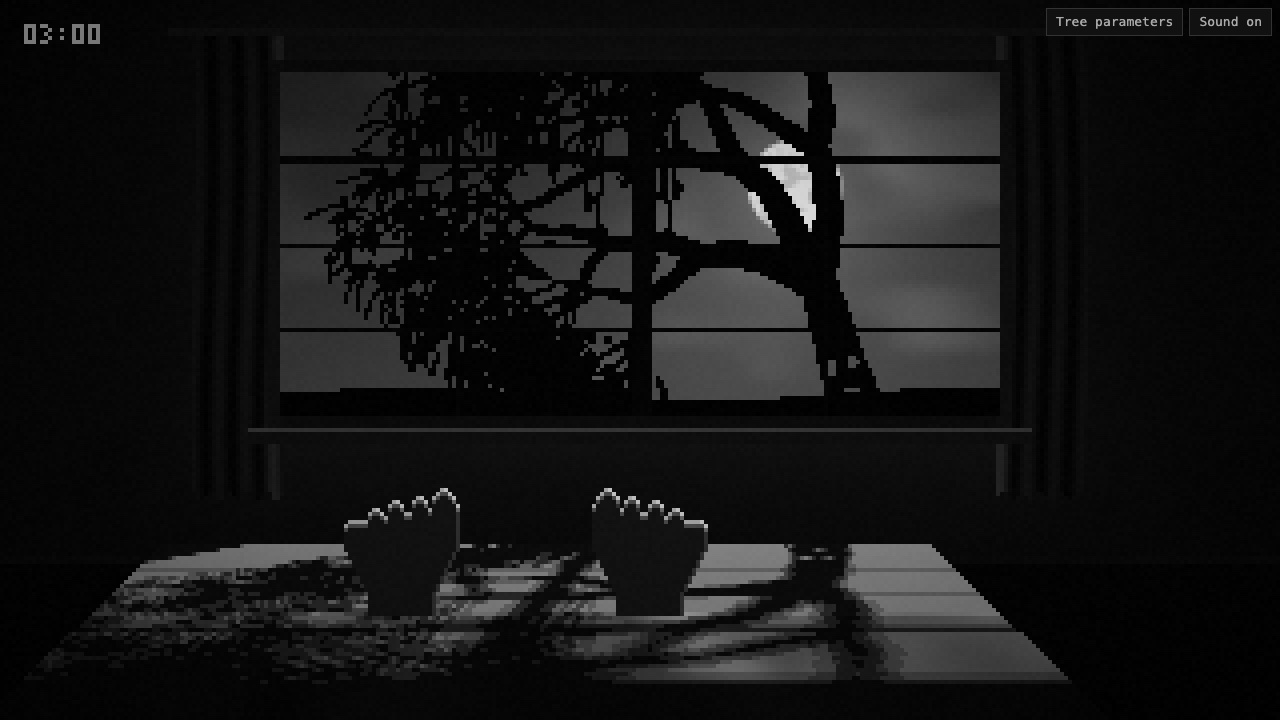
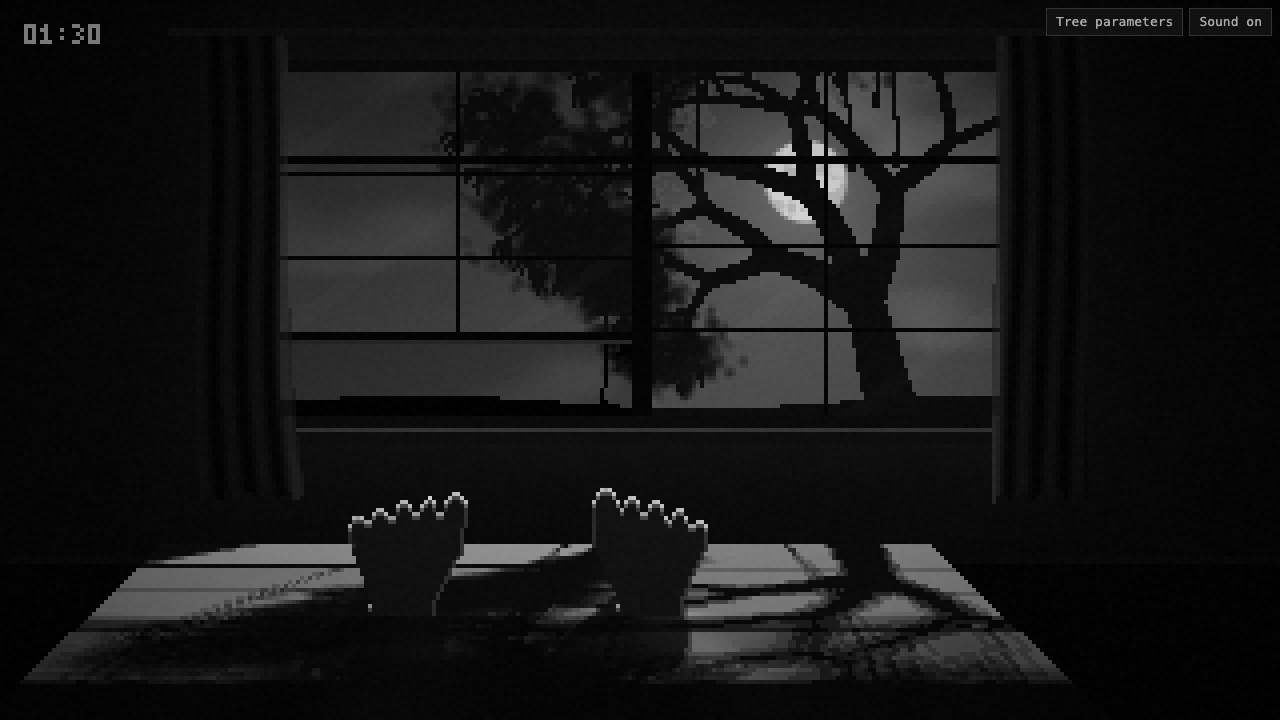
game-only-a-tree: closer tree that taps the glass, translucent leaves, open sash, wind-blown curtains, moving feet
The tree stands closer and fills the window; wind gusts bend it and twigs tick
against the glass. Leaves are denser and let moonlight scatter through, giving
a dappled shadow on the bed. The lower left sash is pushed up, the curtains are
drawn live in front of the sill and billow with the wind, and the feet rock and
wiggle with spread toes that cast their own shadow.

diff --git a/game-only-a-tree/index.html b/game-only-a-tree/index.html
@@ -74,25 +74,26 @@ const W = 320, H = 180;
 const WIN = { x0: 70, y0: 18, x1: 250, y1: 104 };          // glass, x1/y1 exclusive
 const WW = WIN.x1 - WIN.x0, WH = WIN.y1 - WIN.y0;
 const BED_Y = 136, BLANKET_Y = 153;
+const OPEN = 18;                                             // the lower left sash is pushed up this far
 const TARGET_ANGLE = -1.35;                                  // "toward the bed": left and slightly up
 
 // key, label, min, max, step, start-of-night, at-its-worst
 const PARAMS = [
   ['seed',     'Seed',                   1, 999, 1,     7,    7],
-  ['trunkX',   'Trunk position',         0.3, 1.1, 0.01, 0.86, 0.80],
-  ['lean',     'Trunk lean',            -0.8, 0.8, 0.01, -0.08, -0.30],
+  ['trunkX',   'Trunk position',         0.3, 1.1, 0.01, 0.88, 0.82],
+  ['lean',     'Trunk lean',            -0.8, 0.8, 0.01, -0.16, -0.30],
   ['trunkW',   'Trunk thickness',        3, 24, 0.5,    9,    13],
-  ['trunkLen', 'Trunk height',           10, 80, 1,     34,   34],
-  ['scale',    'Closeness',              0.5, 2.2, 0.01, 1.0,  1.3],
+  ['trunkLen', 'Trunk height',           10, 80, 1,     23,   30],
+  ['scale',    'Closeness',              0.5, 2.2, 0.01, 1.3,  1.6],
   ['levels',   'Branch generations',     2, 8, 1,       5,    7],
   ['forks',    'Forks per joint',        1.5, 3.2, 0.05, 2.0,  2.5],
-  ['spread',   'Fork angle',             0.1, 1.3, 0.01, 0.50, 0.72],
-  ['decay',    'Length falloff',         0.5, 0.9, 0.01, 0.68, 0.78],
+  ['spread',   'Fork angle',             0.1, 1.3, 0.01, 0.62, 0.72],
+  ['decay',    'Length falloff',         0.5, 0.9, 0.01, 0.74, 0.78],
   ['gnarl',    'Crookedness',            0, 1.5, 0.01,  0.20, 1.00],
   ['droop',    'Droop',                  0, 1, 0.01,    0.05, 0.55],
-  ['reach',    'Reach toward the bed',   0, 1, 0.01,    0.00, 0.75],
+  ['reach',    'Reach toward the bed',   0, 1, 0.01,    0.12, 0.75],
   ['fingers',  'Finger twigs',           0, 1, 0.01,    0.00, 1.00],
-  ['foliage',  'Leaves',                 0, 1, 0.01,    0.70, 0.00],
+  ['foliage',  'Leaves',                 0, 1, 0.01,    0.85, 0.00],
   ['hang',     'Hanging things',         0, 1, 0.01,    0.00, 0.50],
   ['knots',    'Hollows in the trunk',   0, 1, 0.01,    0.00, 1.00],
   ['sway',     'Sway',                   0, 2, 0.01,    0.35, 1.10],
@@ -156,6 +157,10 @@ const staticBase = new Float32Array(W * H);
 const bedShade = new Float32Array(W * H);     // 0 = not bed
 const barMask = new Uint8Array(W * H);
 const treeMask = new Uint8Array(W * H);
+const openMask = new Uint8Array(W * H);     // no glass here
+const curtA = new Uint8Array(W * H);        // curtain hanging in front of the glass
+const leafD = new Float32Array(W * H);      // how much leaf the moonlight has to pass through
+const leafT = new Float32Array(W * H);
 const out = new Uint8ClampedArray(W * H);
 
 function buildStatic() {
@@ -168,7 +173,11 @@ function buildStatic() {
       const mid = (a + b) >> 1;
       if (x === mid) bar = true;
       const ry = y - WIN.y0;
-      if (ry === 21 || ry === 22 || ry === 43 || ry === 64) bar = true;
+      if (a === WIN.x0) {                                    // left half: lower sash raised
+        if (ry === 21 || ry === 22 || ry === 43 - OPEN || ry === 64 - OPEN) bar = true;
+        if (ry >= WH - OPEN - 3 && ry < WH - OPEN) bar = true;
+        if (ry >= WH - OPEN) { bar = false; openMask[y * W + x] = 1; }
+      } else if (ry === 21 || ry === 22 || ry === 43 || ry === 64) bar = true;
     }
     if (bar) barMask[y * W + x] = 1;
   }
@@ -181,7 +190,7 @@ function buildStatic() {
     if (y === 139 || y === 140) v = 10;                                            // skirting
     // curtain rod and curtains
     if ((y === 7 || y === 8) && x >= 42 && x < 278) v = 19;
-    const cl = x >= 48 && x < 71, cr = x >= 249 && x < 272;
+    const cl = false, cr = false;                            // curtains are drawn live, see drawCurtains
     if ((cl || cr) && y >= 9 && y < 124 + Math.round(Math.sin(x * 1.3) * 1.5)) {
       const k = cl ? 70 - x : x - 249;
       const fold = Math.sin(k * 0.95 + Math.sin(y * 0.045 + (cl ? 0 : 2)) * 0.9);
@@ -230,6 +239,15 @@ function stamp(x, y, r) {
     if (dx * dx + dy * dy <= r2) treeMask[yy * W + xx] = 1;
   }
 }
+function stampLeaf(x, y, r) {
+  const x0 = Math.max(WIN.x0, Math.floor(x - r)), x1 = Math.min(WIN.x1 - 1, Math.ceil(x + r));
+  const y0 = Math.max(WIN.y0, Math.floor(y - r)), y1 = Math.min(WIN.y1 - 1, Math.ceil(y + r));
+  const r2 = r * r;
+  for (let yy = y0; yy <= y1; yy++) for (let xx = x0; xx <= x1; xx++) {
+    const dx = xx - x, dy = yy - y, q = (dx * dx + dy * dy) / r2;
+    if (q < 1) leafD[yy * W + xx] += 0.75 * (1 - q * q);
+  }
+}
 function line(x0, y0, x1, y1, w0, w1) {
   const n = Math.ceil(Math.hypot(x1 - x0, y1 - y0) * 1.5) + 1;
   for (let i = 0; i <= n; i++) {
@@ -238,26 +256,28 @@ function line(x0, y0, x1, y1, w0, w1) {
   }
 }
 function drawTree(p, time, opt) {
-  treeMask.fill(0);
+  treeMask.fill(0); leafD.fill(0);
   opt = opt || {};
+  const wind = opt.wind || 0;
   const sc = p.scale * (opt.zoom || 1);
   const levels = Math.round(p.levels);
   const seed = Math.round(p.seed);
   budget = 7000; trunkPts = [];
   const bx = WIN.x0 + p.trunkX * WW + (opt.dx || 0), by = WIN.y1 + 6 + (opt.dy || 0);
 
-  function leaves(x, y, r) {
-    const n = Math.round(p.foliage * 12);
+  function leaves(x, y, r, a0) {
+    const n = Math.round(p.foliage * 44);
     for (let k = 0; k < n; k++) {
-      const a = r() * 6.283, d = r() * 7 * sc;
-      stamp(x + Math.cos(a) * d, y + Math.sin(a) * d * 0.75, (0.9 + r() * 2.2 * p.foliage) * sc);
+      const a = r() * 6.283, d = Math.sqrt(r()) * 9 * sc, ph = r() * 6.283;
+      const fl = Math.sin(time * 2.6 + ph) * 0.35 * p.sway * (1 + wind);        // each leaf flutters a little
+      stampLeaf(x + Math.cos(a) * d + fl, y + Math.sin(a) * d * 0.7 + fl * 0.5, (0.8 + r() * 1.3) * (0.6 + 0.4 * p.foliage) * sc);
     }
   }
   function grow(x, y, a, len, w, gen, id) {
     if (budget-- <= 0) return;
     const r = mulberry32(Math.imul(seed, 2654435761) ^ Math.imul(id, 40503));
     const ph = r();
-    if (gen > 0) a += Math.sin(time * (0.5 + ph * 0.7) + ph * 6.283) * p.sway * 0.02 * gen;
+    if (gen > 0) a += (Math.sin(time * (0.5 + ph * 0.7) + ph * 6.283) * 0.02 + wind * 0.03) * p.sway * gen;
     const n = gen === 0 ? 6 : 4, sl = len / n, w1 = w * 0.68;
     for (let i = 0; i < n; i++) {
       a += (r() - 0.5) * p.gnarl * 0.8 * (gen === 0 ? 0.45 : 1);
@@ -279,7 +299,7 @@ function drawTree(p, time, opt) {
       for (let yy = -ry; yy <= ry; yy++) for (let xx = -rx; xx <= rx; xx++)
         if ((xx * xx) / (rx * rx) + (yy * yy) / (ry * ry) <= 1) stamp(ex + xx, ey + ry + yy, 0.5);
     }
-    if (gen >= levels - 1) leaves(x, y, r);
+    if (gen >= levels - 2 && gen > 0) leaves(x, y, r);
     if (gen >= levels) {
       if (p.fingers > 0.02) {                                  // twig ends that curl like fingers
         for (let k = 0; k < 4; k++) {
@@ -325,20 +345,58 @@ function drawTree(p, time, opt) {
 }
 
 // ---------------------------------------------------------------------------
-// feet
-const FEET = [{ cx: 100, dir: 1 }, { cx: 162, dir: -1 }];
+// curtains: pinned at the rod, pushed into the room by the wind, most on the open side
+function drawCurtains(time, wind, gust) {
+  curtA.fill(0);
+  for (let side = 0; side < 2; side++) {
+    const amp = side === 0 ? 17 : 6, ph = side * 2.3;
+    for (let y = 9; y < 127; y++) {
+      const t = (y - 9) / 114;
+      const wave = Math.sin(time * 2.1 - t * 4.5 + ph) * 0.5 + Math.sin(time * 1.3 - t * 2.2 + ph) * 0.5;
+      const push = amp * Math.pow(t, 1.5) * (wind * 0.75 + wave * (0.1 + 0.3 * gust));
+      const xa = side === 0 ? 48 + push * 0.25 : 249 - push, xb = side === 0 ? 71 + push : 272 - push * 0.25;
+      const hem = 124 - Math.abs(push) * 0.12;
+      for (let x = Math.ceil(xa); x < xb; x++) {
+        if (x < 0 || x >= W || y >= hem + Math.sin(x * 1.3) * 1.5) continue;
+        const u = (x - xa) / (xb - xa), k = (side === 0 ? 1 - u : u) * 23;
+        const fold = Math.sin(k * 0.95 + Math.sin(y * 0.045 + ph) * 0.9 + push * 0.12);
+        let val = 9 + 6 * fold + 30 * Math.exp(-k / 3.2) * (0.6 + 0.4 * fold);
+        const i = y * W + x;
+        if (x >= WIN.x0 && x < WIN.x1 && y >= WIN.y0 && y < WIN.y1) { val = val * 0.55 + fb[i] * 0.5; curtA[i] = 1; }
+        fb[i] = val;
+      }
+    }
+  }
+}
+
+// ---------------------------------------------------------------------------
+// feet. Each foot rocks about the ankle, and the toes spread and wiggle.
+const ANKLE_Y = 152;
+const FEET = [{ cx: 100, dir: 1, c: 1, s: 0, spread: 0, ty: [0, 0, 0, 0, 0] }, { cx: 162, dir: -1, c: 1, s: 0, spread: 0, ty: [0, 0, 0, 0, 0] }];
 // toes from the big one outward: x offset, rx, ry, centre y
-const TOES = [[10.6, 3.4, 4.6, 126.5], [4.5, 2.5, 4.1, 127.5], [-1.2, 2.4, 4.0, 128.6], [-6.6, 2.3, 3.6, 130.2], [-11.6, 2.1, 3.2, 132.2]];
-function inFoot(f, x, y, curl, lift) {
-  y -= lift;
-  const dx = x - f.cx, ax = Math.abs(dx);
+const TOES = [[11.4, 3.2, 4.6, 126.5], [4.9, 2.2, 4.1, 127.5], [-1.2, 2.1, 4.0, 128.6], [-7.0, 2.0, 3.6, 130.2], [-12.4, 1.9, 3.2, 132.2]];
+function poseFeet(time, curl, lift) {
+  FEET.forEach((f, n) => {
+    const th = (fbm(time * 0.16 + n * 31, 1.7) - 0.5) * 0.42 + Math.sin(time * 0.9 + n * 2) * 0.02;
+    f.c = Math.cos(th); f.s = Math.sin(th); f.lift = lift;
+    f.spread = smooth(0.35, 0.75, vnoise(time * 0.23 + n * 17, 4.2)) * (1 - curl);
+    const wig = smooth(0.55, 0.8, vnoise(time * 0.31 + n * 9, 8.8));
+    for (let k = 0; k < 5; k++) f.ty[k] = curl * 2 + wig * Math.sin(time * 7.5 + k * 1.25 + n) * 1.1 - f.spread * 0.6;
+  });
+}
+function inFoot(f, x, y) {
+  y -= f.lift;
+  const rx = x - f.cx, ry = y - ANKLE_Y;
+  const dx = rx * f.c + ry * f.s; y = ANKLE_Y - rx * f.s + ry * f.c;
   if (y >= 128 - f.dir * dx * 0.2) {
     const hw = y < 136 ? 14.5 : y < 150 ? 14.5 - (y - 136) * 0.46 : 8 + (y - 150) * 0.2;
-    if (ax <= hw) return true;
+    if (Math.abs(dx) <= hw) return true;
   }
   if (y > 137) return false;
-  for (const t of TOES) {
-    const qx = (x - (f.cx + f.dir * t[0])) / t[1], qy = (y - (t[3] + curl * 2)) / t[2];
+  const sp = 1 + 0.2 * f.spread;
+  for (let k = 0; k < 5; k++) {
+    const t = TOES[k];
+    const qx = (dx - f.dir * t[0] * sp) / t[1], qy = (y - t[3] - f.ty[k]) / t[2];
     if (qx * qx + qy * qy <= 1) return true;
   }
   return false;
@@ -378,7 +436,7 @@ function text(s, x, y, val, scale, center) {
 let frameNo = 0;
 function render(v) {
   const p = v.p, time = v.time, dawn = v.dawn || 0;
-  drawTree(p, time, v.inside ? { zoom: 2.3, dx: 20, dy: 80 } : null);
+  drawTree(p, time, v.inside ? { zoom: 2.3, dx: 20, dy: 80 } : { wind: v.wind || 0 });
   fb.set(staticBase);
 
   // outside
@@ -386,13 +444,24 @@ function render(v) {
   const cloudAt = (x, y) => smooth(0.62 - p.clouds * 0.42, 0.9 - p.clouds * 0.3, fbm((x + time * 1.6) * 0.022, y * 0.05 + 5));
   const moonVis = (1 - 0.65 * cloudAt(mx, my)) * (1 - dawn * 0.8);
   for (let y = WIN.y0; y < WIN.y1; y++) {
-    const ground = WIN.y1 - 6 + Math.sin(0.05 * 1) * 0;
+    const ground = WIN.y1 - 4;
     for (let x = WIN.x0; x < WIN.x1; x++) {
       const i = y * W + x;
-      if (barMask[i]) { fb[i] = 4 + dawn * 10; continue; }
+      if (barMask[i]) { fb[i] = 4 + dawn * 10 + (openMask[i + W] ? 34 * moonVis : 0); continue; }
       if (!v.inside && treeMask[i]) { fb[i] = 2.5 + dawn * 14; continue; }
-      if (y > ground + Math.sin(x * 0.045) * 1.6) { fb[i] = 2 + dawn * 12; continue; }
       const d = Math.hypot(x - mx, y - my);
+      // leaves: light is absorbed on the way through, and what gets scattered inside a thin
+      // leaf comes out the near side, strongest where the moon is close behind it
+      let T = 1, sc8 = 0;
+      const ld = v.inside ? 0 : leafD[i];
+      if (ld > 0.02) {
+        const dn = (ld + 0.2 * (leafD[i - 1] + leafD[i + 1] + leafD[i - W] + leafD[i + W])) / 1.8;
+        T = Math.exp(-1.15 * dn);
+        const fwd = Math.exp(-d / (mr * 4)) + 0.25 * Math.exp(-d / 60);
+        sc8 = moonVis * (14 + 190 * fwd) * (1 - T) * Math.exp(-0.75 * dn) + dawn * 30 * (1 - T);
+      }
+      leafT[i] = T;
+      if (y > ground + Math.sin(x * 0.045) * 1.6) { fb[i] = 2 + dawn * 12 + sc8 * 0.5; continue; }
       let s = 30 + 26 * (y - WIN.y0) / WH + 62 * Math.exp(-d / (mr * 2.4)) + 26 * Math.exp(-d / 70);
       const c = cloudAt(x, y);
       s += c * (10 + 40 * Math.exp(-d / 45));
@@ -401,16 +470,24 @@ function render(v) {
         s += (disc * (1 - 0.6 * c) - s) * clamp(mr + 0.5 - d, 0, 1);
       }
       s = s * (1 - dawn * 0.45) + dawn * (150 + 70 * (y - WIN.y0) / WH);
-      fb[i] = s;
+      fb[i] = s * T + sc8 + (T < 1 ? 2 : 0);
     }
   }
+  // the glass adds a little haze; the open gap is the bare night
+  for (let y = WIN.y0; y < WIN.y1; y++) for (let x = WIN.x0; x < WIN.x1; x++) {
+    const i = y * W + x;
+    if (!openMask[i] && !barMask[i]) fb[i] = fb[i] * 0.93 + 10 + (Math.sin((x + y * 1.4) * 0.11) > 0.93 ? 3 : 0);
+    else if (openMask[i]) fb[i] *= 0.82;
+  }
+  drawCurtains(time, v.wind || 0, v.gust || 0);
 
   // moonlight through the window onto the bed
   const lightAt = (u, vv) => {
     if (u < 0 || u >= 1 || vv < 0 || vv >= 1) return 0;
     const i = ((WIN.y0 + vv * WH) | 0) * W + ((WIN.x0 + u * WW) | 0);
-    return barMask[i] || treeMask[i] ? 0 : 1;
+    return barMask[i] || treeMask[i] ? 0 : leafT[i] * (curtA[i] ? 0.45 : 1) * (openMask[i] ? 1.15 : 1);
   };
+  poseFeet(time, v.curl || 0, v.footLift || 0);
   for (let y = BED_Y; y < H; y++) {
     const t = (y - BED_Y) / (H - BED_Y), z = 1 - Math.pow(1 - t, 1.8);
     const vv = 0.985 - z * 1.07, s = 1 + z * 1.25, pen = (0.6 + 2.2 * z) / WW;
@@ -420,21 +497,30 @@ function render(v) {
       if (!sh) continue;
       const u = 0.5 + ((x - 150 + 34 * z) / s) / WW;
       const L = (lightAt(u - pen, vv) + lightAt(u + pen, vv) + lightAt(u, vv - pen * 1.5) + lightAt(u, vv + pen * 1.5)) * 0.25;
-      const lit = L * moonVis + dawn * 0.5;
+      let lit = L * moonVis + dawn * 0.5;
+      if (y > ANKLE_Y - 4 && lit > 0.01) {                    // the feet throw their shadow toward you, toes last
+        const q = y - (ANKLE_Y - 4);
+        let sh2 = 0;
+        for (const f of FEET) {
+          const fx = f.cx + (x - f.cx + 0.55 * q) / (1 + 0.012 * q), fy = ANKLE_Y - 4 - q / 1.02;
+          if (Math.abs(fx - f.cx) < 24) sh2 += (inFoot(f, fx - 0.5, fy) ? 0.5 : 0) + (inFoot(f, fx + 0.5, fy) ? 0.5 : 0);
+        }
+        lit *= 1 - 0.85 * Math.min(1, sh2);
+      }
       fb[i] = blanket ? (8 + lit * 88) * sh : (12 + lit * 128) * (0.9 + 0.1 * sh);
       if (y === BLANKET_Y) fb[i] += 5 + lit * 30;
     }
   }
 
-  // feet, lit from behind
-  const lift = v.footLift || 0, curl = v.curl || 0;
+  // feet, lit from behind: light catches the top of every toe and both of its sides
   for (const f of FEET) {
-    for (let y = 118; y < BLANKET_Y + 1; y++) for (let x = f.cx - 17; x <= f.cx + 17; x++) {
-      if (!inFoot(f, x, y, curl, lift)) continue;
+    for (let y = 112; y < BLANKET_Y + 1; y++) for (let x = f.cx - 24; x <= f.cx + 24; x++) {
+      if (!inFoot(f, x, y)) continue;
       let val = 19 + dawn * 60;
-      if (!inFoot(f, x, y - 1, curl, lift)) val = 20 + 150 * moonVis + dawn * 60;
-      else if (!inFoot(f, x, y - 2, curl, lift)) val = 20 + 55 * moonVis + dawn * 60;
-      if (!inFoot(f, x + 1, y, curl, lift)) val += 30 * moonVis;
+      if (!inFoot(f, x, y - 1)) val = 20 + 150 * moonVis + dawn * 60;
+      else if (!inFoot(f, x, y - 2)) val = 20 + 55 * moonVis + dawn * 60;
+      if (!inFoot(f, x + 1, y)) val += 34 * moonVis;
+      if (y < 137 && !inFoot(f, x - 1, y)) val += 24 * moonVis;
       fb[y * W + x] = val;
     }
   }
@@ -511,6 +597,12 @@ function sfxTap() {
     burst(w, 0.035, 1500, 9, 0.9); thump(w, 0.25, 260);
   }
 }
+function sfxTwig(g) {          // a twig touching the glass, much lighter than a knock
+  if (!A.ctx) return;
+  const t = A.ctx.currentTime + 0.01, k = (0.5 + 0.5 * Math.random()) * (0.35 + 0.65 * g);
+  const f = burst(t, 0.022, 2400 + Math.random() * 1400, 14, 0.5 * k);
+  thump(t, 0.05 * k, 330);
+}
 function sfxSting(v) { if (!A.ctx) return; const t = A.ctx.currentTime + 0.01; burst(t, 0.5, 700, 0.7, v * 0.5, 'lowpass'); thump(t, v * 0.7); }
 function sfxDeath() {
   if (!A.ctx) return;
@@ -565,6 +657,7 @@ const G = {
   lid: 0, held: false, needRelease: false, wasClosed: false,
   depth: 0,            // how deeply asleep
   surgeT: 8, surge: 0,
+  wind: 0, gust: 0, tapT: 0, jolt: 0,
   curl: 0, t: 0, closes: 0, tune: false, tuneTab: 'calm', tuneBlend: null
 };
 function newNight() {
@@ -580,7 +673,16 @@ function clockString(h) {
 }
 function update(dt) {
   G.time += dt;
+  // wind: a slow breeze with gusts that push the twigs against the glass
+  const wn = fbm(G.time * 0.22, 3.1);
+  G.gust = smooth(0.5, 0.78, wn);
+  G.jolt = Math.max(0, G.jolt - dt * 6);
+  G.wind = ((wn - 0.5) * 0.8 + G.gust) * (1 - 0.3 * G.jolt);
   if (G.tune) return;
+  if (G.gust > 0.25 && (G.state === 'play' || G.state === 'win')) {
+    G.tapT -= dt;
+    if (G.tapT <= 0) { G.tapT = 0.16 + Math.random() * (1.1 - 0.7 * G.gust); G.jolt = 1; sfxTwig(G.gust); }
+  }
   G.t += dt;
   G.curl = Math.max(0, G.curl - dt * 0.8);
   const s = G.state;
@@ -632,7 +734,7 @@ function update(dt) {
 function draw() {
   if (G.tune) {
     const v = G.tuneBlend !== null ? G.tuneBlend : (G.tuneTab === 'calm' ? 0 : 1);
-    render({ p: blendParams(v), time: G.time });
+    render({ p: blendParams(v), time: G.time, wind: G.wind, gust: G.gust });
     return;
   }
   const s = G.state;
@@ -644,7 +746,7 @@ function draw() {
     return;
   }
   const dawn = s === 'win' || s === 'waking' ? 1 : clamp((G.hour - 5) * 0.3, 0, 0.3);
-  const view = { p: blendParams(s === 'title' || s === 'win' || s === 'waking' ? 0 : visualCreep()), time: G.time, dawn, lid: G.lid, curl: G.curl };
+  const view = { p: blendParams(s === 'title' || s === 'win' || s === 'waking' ? 0 : visualCreep()), time: G.time, dawn, lid: G.lid, curl: G.curl, wind: G.wind, gust: G.gust };
   if (s === 'title') view.dark = 0.5;
   if (s === 'reveal') {
     view.p = blendParams(1); view.inside = true; view.curl = 1;
